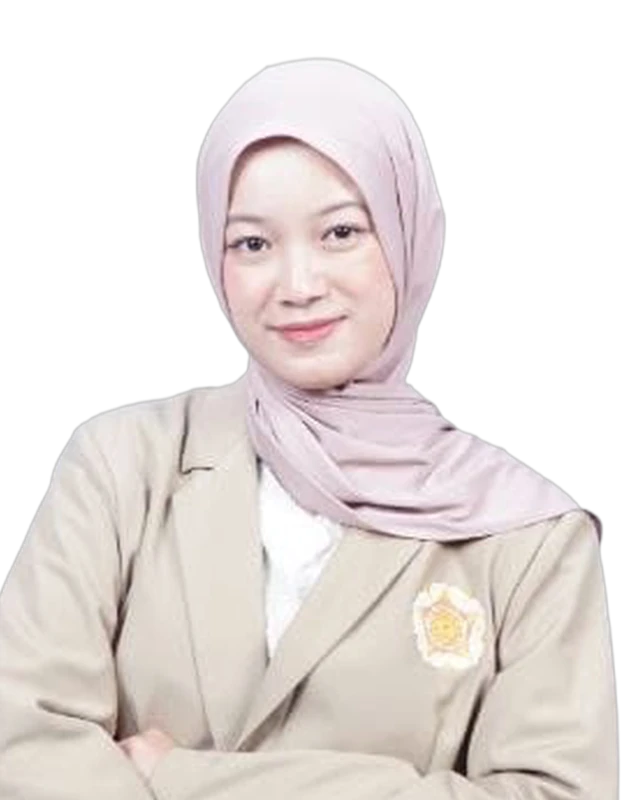
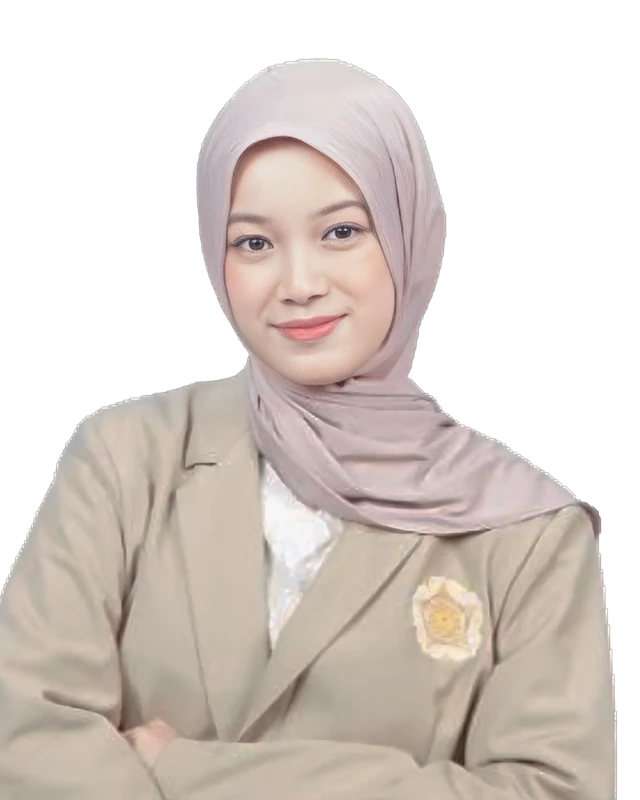
feat: add image processing script and landing page view for team member display

diff --git a/src/views/LandingView.tsx b/src/views/LandingView.tsx
@@ -42,19 +42,14 @@ export const LandingView: React.FC<Props> = ({ onNavigate }) => (
     </p>
 
     <div className="mt-10 flex flex-wrap items-center justify-center gap-3 anim-rise delay-3">
-      <div className="relative inline-block">
-        <span className="absolute -top-3 left-1/2 -translate-x-1/2 text-[12px] px-2 py-0.5 rounded-full bg-white/10 text-white/90">
-          Coba
-        </span>
-        <button
-          onClick={() => onNavigate('simulasi')}
-          className="transform h-14 px-8 rounded-full text-[15px] font-semibold text-white bg-gradient-to-r from-core-500 to-core-600
-            shadow-[0_14px_40px_-12px_rgba(16,24,60,.45)] inline-flex items-center gap-3 hover:-translate-y-1 hover:shadow-[0_20px_50px_-20px_rgba(16,24,60,.5)] active:scale-[.99] transition-all"
-        >
-          Buka Simulasi
-          <ArrowRight className="w-4 h-4" />
-        </button>
-      </div>
+      <button
+        onClick={() => onNavigate('simulasi')}
+        className="h-14 px-8 rounded-full text-[15px] font-semibold text-white bg-gradient-to-r from-core-500 to-core-600
+          shadow-[0_14px_40px_-12px_rgba(16,24,60,.45)] inline-flex items-center gap-3 hover:-translate-y-1 hover:shadow-[0_20px_50px_-20px_rgba(16,24,60,.5)] active:scale-[.99] transition-all"
+      >
+        Buka Simulasi
+        <ArrowRight className="w-4 h-4" />
+      </button>
 
       <PillButton onClick={() => onNavigate('metodologi')}>Metodologi</PillButton>
       <PillButton onClick={() => onNavigate('tentang')}>Tentang Kami</PillButton>

diff --git a/scripts/prepare-team-photos.py b/scripts/prepare-team-photos.py
@@ -46,10 +46,14 @@ JOBS = [
         # Sumber ini sudah dilepas latarnya di luar skrip, jadi tahap matte
         # dilewati. Hasilnya jauh lebih bersih di tepi hijab daripada saat kami
         # memisahkan latar putihnya sendiri — margin rona di sana cuma 1-2 poin.
-        "src": "risyahnobg.png",
+        "src": "risyahhdnobg.png",
         "slug": "risyah-eka-setyaningrum",
-        "crop": None,  # sumber 573x737, nyaris 3:4
-        "width": 553,
+        "crop": None,  # sumber 2706x3480, nyaris 3:4
+        # Pose berdiri sebadan penuh: kepalanya kecil terhadap bingkai, jadi
+        # resolusi kerja dinaikkan sampai lebar kepala mendekati HEAD_W. Kalau
+        # dirender di 640 seperti kanvas, penyeragaman kepala harus memperbesar
+        # ~1,9x dan tepinya jadi lunak.
+        "width": 1200,
         "bg": "alpha",
         "smooth": 0.0,
     },
@@ -67,28 +71,15 @@ JOBS = [
         "zoom": 0.88,
     },
     {
-        # Satu-satunya foto yang tidak diambil di studio: latarnya dinding
-        # ruangan dengan kursi dan meja. Yang menyelamatkan pemisahannya bukan
-        # warna latar melainkan jasnya — hitam pekat, sementara seluruh latar
-        # terang dan condong dingin.
-        "src": "Satriyo Priyo Adi, S.Psi, M.Sc.jpeg",
+        # Sumber lama foto ruangan berlatar dinding, dan pemisahannya di sini
+        # menyisakan gerigi di bahu. Diganti sumber yang sudah ber-alpha dan
+        # jauh lebih besar, jadi seluruh tahap matte dilewati.
+        "src": "maspipinobg.png",
         "slug": "satriyo-priyo-adi",
-        "crop": None,  # sumber 226x300, praktis 3:4
-        "width": 452,  # naikkan 2x dulu supaya tepi matte tidak berundak
-        "bg": "white",
-        "smooth": 2.0,
-        # Ambang jauh lebih rendah daripada latar studio: dinding terukur 212
-        # dan turun sampai 133 di bagian yang teduh. Kemeja dan dasinya lolos
-        # ambang serendah ini juga, tapi selamat karena terkurung jas — tidak
-        # ada jalur piksel terang yang menyambungkannya ke tepi bingkai.
-        "white_th": (140, 6, 85, 0),
-        # Meja dan kursi di belakangnya nyaris netral, jadi baru tersapu setelah
-        # rambatan panjang. Dua puluh enam langkah menghabisi keduanya dan masih
-        # berhenti jauh sebelum menyentuh wajah.
-        "grow": 26,
-        # Sisa dua bercak: tulisan di dinding sedikit di atas bahu kiri, dan
-        # sudut meja di kanan. Keduanya hangat-netral, di luar jangkauan ambang.
-        "wipe": [(80, 40, 175, 140), (320, 320, 452, 430)],
+        "crop": None,  # sumber 1118x1484, praktis 3:4
+        "width": 620,  # dipilih supaya lebar kepala x zoom jatuh dekat HEAD_W
+        "bg": "alpha",
+        "smooth": 0.0,
         # Kebalikan dari Sarah: ini potret sebatas dada, bukan setengah badan.
         # Pada ukuran kepala yang sama, badannya berhenti seperempat kanvas dari
         # dasar dan kartunya jadi banyak ruang kosong. Dibesarkan sampai penuh —
